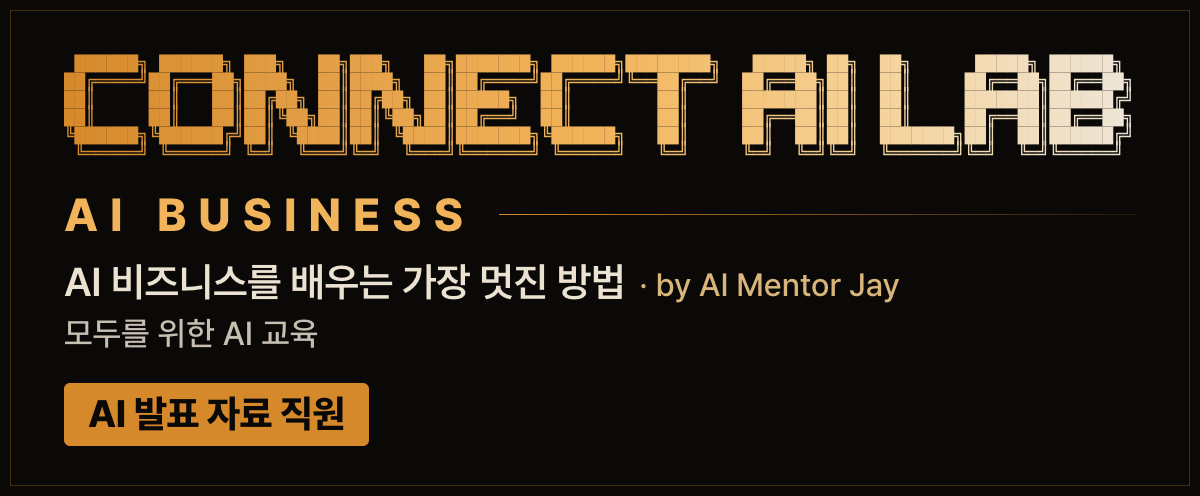
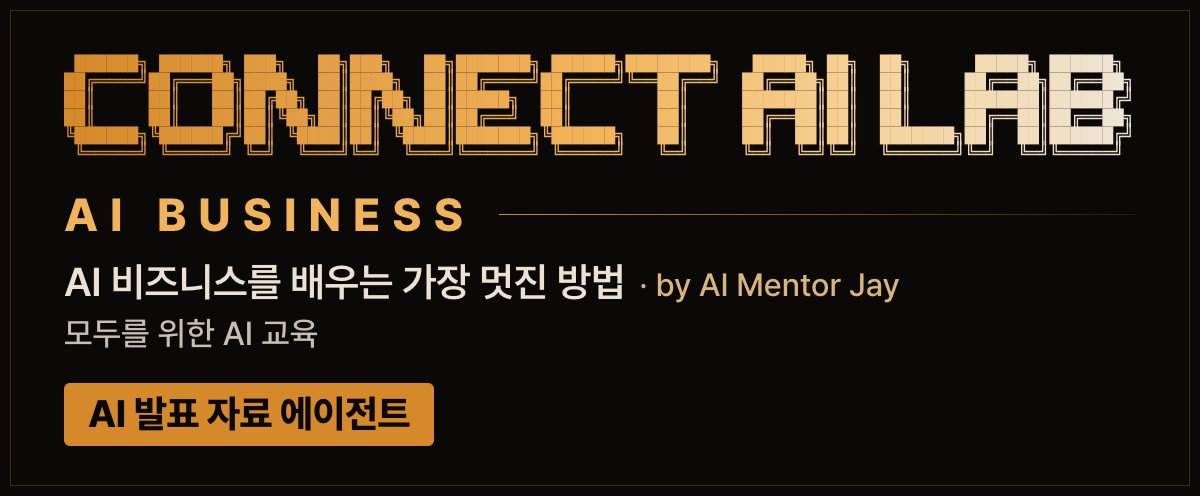
Rename: AI employee -> AI agent (AI Presentation Agent)
Names now read "AI ... Agent" / "AI ... 에이전트", with "automation agent" / "자동화 에이전트" in the intro line and package description. Team table: AI Agent Team (14). Chat banner and nameplate redrawn with the new name, same file names. Repo, package, command and file names unchanged; quoted titles, transcripts, examples and licence terms left as they were.

Changed region(s): [[0.2158, 0.756, 0.37, 0.9073]]

diff --git a/docs/textbook/index.html b/docs/textbook/index.html
@@ -3,10 +3,10 @@
 <head>
 <meta charset="utf-8">
 <meta name="viewport" content="width=device-width, initial-scale=1, viewport-fit=cover">
-<title>4강 발표자료 AI 직원 · 비주얼 바이브코딩</title>
+<title>4강 AI 발표자료 에이전트 · 비주얼 바이브코딩</title>
 <meta name="robots" content="noindex">
-<meta name="description" content="비주얼 바이브코딩 4강 교재. CONNECT AI LAB 발표자료 직원 connect-ai-slides-web.">
-<meta property="og:title" content="4강 발표자료 AI 직원 · 비주얼 바이브코딩">
+<meta name="description" content="비주얼 바이브코딩 4강 교재. CONNECT AI LAB AI 발표자료 에이전트 connect-ai-slides-web.">
+<meta property="og:title" content="4강 AI 발표자료 에이전트 · 비주얼 바이브코딩">
 <meta property="og:image" content="../brand/social-preview.jpg">
 <meta name="theme-color" content="#0B0A09">
 <link rel="preconnect" href="https://fonts.googleapis.com">
@@ -118,7 +118,7 @@ a{color:var(--gold2)}
   <section class="hero">
     <p class="kick mono"><span class="ko">비주얼 바이브코딩 · 4강</span><span class="en">Visual Vibe Coding · Lesson 4</span></p>
     <p class="serif">Slides that move</p>
-    <h1><span class="ko">발표자료<br><em>AI 직원</em></span><span class="en">The AI presentation<br><em>employee</em></span></h1>
+    <h1><span class="ko">AI 발표자료<br><em>에이전트</em></span><span class="en">The AI presentation<br><em>agent</em></span></h1>
     <span class="pkg">connect-ai-slides-web</span>
     <figure class="banner rv"><img src="../brand/banner.jpg" width="1920" height="960" alt="AI 멘토 제이, CONNECT AI LAB"></figure>
     <figure class="film rv">
@@ -126,7 +126,7 @@ a{color:var(--gold2)}
       <figcaption class="tag mono"><span class="ko">2017 PPT → 움직이는 발표자료</span><span class="en">2017 PPT → slides that move</span></figcaption>
     </figure>
     <ol class="toc">
-      <li><a href="#c1"><b>01</b><span><span class="ko">발표자료 AI 직원 설치하기</span><span class="en">Install the presentation employee</span></span></a></li>
+      <li><a href="#c1"><b>01</b><span><span class="ko">AI 발표자료 에이전트 설치하기</span><span class="en">Install the AI presentation agent</span></span></a></li>
       <li><a href="#c2"><b>02</b><span><span class="ko">데모 PPTX 열고 글상자 고치기</span><span class="en">Open the demo PPTX, edit a text box</span></span></a></li>
       <li><a href="#c3"><b>03</b><span><span class="ko">예전 PPT 가져오기</span><span class="en">Bring in an old PPT</span></span></a></li>
       <li><a href="#c4"><b>04</b><span><span class="ko">내 원고를 슬라이드 다섯 장과 발표자 노트로</span><span class="en">Turn my script into five slides and notes</span></span></a></li>
@@ -143,7 +143,7 @@ a{color:var(--gold2)}
 <section class="ch" id="c1"><div class="shell ch-grid">
   <div class="rv">
     <p class="num"><b>01</b></p>
-    <h2><span class="ko">발표자료 AI 직원 설치하기</span><span class="en">Install the presentation employee</span></h2>
+    <h2><span class="ko">AI 발표자료 에이전트 설치하기</span><span class="en">Install the AI presentation agent</span></h2>
     <ul class="items">
       <li><i>A</i><span><span class="ko">에이전트 채팅창에 한 줄</span><span class="en">One line in your agent's chat</span></span></li>
       <li><i>B</i><span><span class="ko">새 채팅 열기</span><span class="en">Open a new chat</span></span></li>

diff --git a/README.md b/README.md
@@ -7,7 +7,7 @@
 
 # connect-ai-slides-web
 
-**An AI presentation employee for solo founders and creators. Give it a few lines, and you get a deck that moves and a real PowerPoint file. Your old PPT works too.**
+**An AI presentation automation agent for solo founders and creators. Give it a few lines, and you get a deck that moves and a real PowerPoint file. Your old PPT works too.**
 
 [![I gave it a deck I made in 2017, and the same words came back as a deck that moves](docs/showcase/v04/hero.webp)](docs/showcase/v04/hero.mp4)
 
@@ -92,26 +92,26 @@ This is a Perceptron deck I made in 2017 and put on GitHub. I gave it all 14 sli
 I checked what's inside the files with `inspect` and looked at them in Quick Look on a Mac. I haven't played them in the PowerPoint app yet, so open yours once on the computer you will present from. Try them: [Korean deck.pptx](docs/demo/ko/deck.pptx) · [English deck.pptx](docs/demo/en/deck.pptx). All 114 blocks are on the [catalog page](docs/index.html).
 
 <!-- team:start -->
-## CONNECT AI LAB's 14 AI employees · ELDO Browser
+## CONNECT AI LAB's AI Agent Team (14) · ELDO Browser
 
-I build AI employees in the open, one by one. Grab the one you need, or browse and hire all 14 with [ELDO Browser](https://eldobrowser.com) and [`wonseokjung/eldo`](https://github.com/wonseokjung/eldo) (`npx github:wonseokjung/eldo`).
+I build AI agents in the open, one by one. Grab the one you need, or browse and hire all 14 with [ELDO Browser](https://eldobrowser.com) and [`wonseokjung/eldo`](https://github.com/wonseokjung/eldo) (`npx github:wonseokjung/eldo`).
 
 <table>
-<tr><td width="34%" valign="top"><b>ELDO Browser · Open-Source Hub</b><br><a href="https://eldobrowser.com"><code>eldobrowser.com</code></a> · <a href="https://github.com/wonseokjung/eldo"><code>eldo</code></a></td><td valign="top">The free Browser for AI Agents (Apple Notarized macOS &amp; Windows). Sign in once; AI employees work in isolated gold spaces and hand off auth and payments to you.</td></tr>
-<tr><td width="34%" valign="top"><b>AI autonomous company HQ</b><br><a href="https://github.com/wonseokjung/connect-ai-autonomous-company"><code>connect-ai-autonomous-company</code></a></td><td valign="top">Local AI company OS connecting your life, AI employees, automations, and ELDO browser.</td></tr>
-<tr><td width="34%" valign="top"><b>AI developer</b><br><a href="https://github.com/wonseokjung/connect-ai-developer"><code>connect-ai-developer</code></a></td><td valign="top">One sentence in, a service with sign-up, database, test payments, GitHub and deploy plans out.</td></tr>
-<tr><td width="34%" valign="top"><b>AI accountant</b><br><a href="https://github.com/wonseokjung/connect-ai-accountant"><code>connect-ai-accountant</code></a></td><td valign="top">Receipts, 홈택스, card and bank in. A monthly sheet and a package for your tax accountant out.</td></tr>
-<tr><td width="34%" valign="top"><b>AI marketing team</b><br><a href="https://github.com/wonseokjung/connect-ai-marketer"><code>connect-ai-marketer</code></a></td><td valign="top">8 AI teammates handling replies, social listening and YouTube uploads 24/7 in your browser.</td></tr>
-<tr><td width="34%" valign="top"><b>AI writer</b><br><a href="https://github.com/wonseokjung/connect-ai-writer"><code>connect-ai-writer</code></a></td><td valign="top">Give it one video or topic; it researches and writes platform posts in your voice, with pictures.</td></tr>
-<tr><td width="34%" valign="top"><b>AI business analyst</b><br><a href="https://github.com/wonseokjung/reversebusiness"><code>reversebusiness</code></a></td><td valign="top">Give it a website URL, and it breaks down how that business makes money and designs your version.</td></tr>
-<tr><td width="34%" valign="top"><b>AI image director</b><br><a href="https://github.com/wonseokjung/connect-ai-image"><code>connect-ai-image</code></a></td><td valign="top">Free-first local ComfyUI + FLUX or logged-in browser image series for every platform.</td></tr>
-<tr><td width="34%" valign="top"><b>AI presentation slides</b> · <b>this one</b><br><a href="https://github.com/wonseokjung/connect-ai-slides-web"><code>connect-ai-slides-web</code></a></td><td valign="top">Turn a few lines or an old PPT into a motion-first 3D web deck and a real PowerPoint (.pptx) file.</td></tr>
-<tr><td width="34%" valign="top"><b>AI 3D web studio</b><br><a href="https://github.com/wonseokjung/connect-ai-three"><code>connect-ai-three</code></a></td><td valign="top">Say it, get an interactive Three.js 3D web page and a frame-exact film from one spec.</td></tr>
-<tr><td width="34%" valign="top"><b>AI motion designer</b><br><a href="https://github.com/wonseokjung/connect-ai-motion"><code>connect-ai-motion</code></a></td><td valign="top">Give it a few lines of text, and it makes a 16:9 and 9:16 motion graphics video. No footage needed.</td></tr>
-<tr><td width="34%" valign="top"><b>AI video editor</b><br><a href="https://github.com/wonseokjung/connect-ai-video-motion"><code>connect-ai-video-motion</code></a></td><td valign="top">Give it your video, and it puts 80 body-aware motion graphics in the empty space around you.</td></tr>
-<tr><td width="34%" valign="top"><b>AI XR developer</b><br><a href="https://github.com/wonseokjung/connect-ai-xr"><code>connect-ai-xr</code></a></td><td valign="top">Give it one sentence, and it makes a WebXR app for Meta Quest passthrough AR, VR, and desktop.</td></tr>
-<tr><td width="34%" valign="top"><b>AI product photographer</b><br><a href="https://github.com/wonseokjung/connect-ai-product-photo"><code>connect-ai-product-photo</code></a></td><td valign="top">Drop phone product photos in a folder and get platform-ready studio shots keeping real sharp labels.</td></tr>
-<tr><td width="34%" valign="top"><b>AI global localizer</b><br><a href="https://github.com/wonseokjung/connect-ai-localizer"><code>connect-ai-localizer</code></a></td><td valign="top">Rewrite your Korean post or subtitles natively for English, Japanese and Spanish in your own voice.</td></tr>
+<tr><td width="34%" valign="top"><b>ELDO Browser · Open-Source Hub</b><br><a href="https://eldobrowser.com"><code>eldobrowser.com</code></a> · <a href="https://github.com/wonseokjung/eldo"><code>eldo</code></a></td><td valign="top">The free Browser for AI Agents (Apple Notarized macOS &amp; Windows). Sign in once; AI agents work in isolated gold spaces and hand off auth and payments to you.</td></tr>
+<tr><td width="34%" valign="top"><b>AI autonomous company HQ</b><br><a href="https://github.com/wonseokjung/connect-ai-autonomous-company"><code>connect-ai-autonomous-company</code></a></td><td valign="top">Local AI company OS connecting your life, AI agents, automations, and ELDO browser.</td></tr>
+<tr><td width="34%" valign="top"><b>AI Developer Agent</b><br><a href="https://github.com/wonseokjung/connect-ai-developer"><code>connect-ai-developer</code></a></td><td valign="top">One sentence in, a service with sign-up, database, test payments, GitHub and deploy plans out.</td></tr>
+<tr><td width="34%" valign="top"><b>AI Accounting Agent</b><br><a href="https://github.com/wonseokjung/connect-ai-accountant"><code>connect-ai-accountant</code></a></td><td valign="top">Receipts, 홈택스, card and bank in. A monthly sheet and a package for your tax accountant out.</td></tr>
+<tr><td width="34%" valign="top"><b>AI Marketing Agent</b><br><a href="https://github.com/wonseokjung/connect-ai-marketer"><code>connect-ai-marketer</code></a></td><td valign="top">8 AI teammates handling replies, social listening and YouTube uploads 24/7 in your browser.</td></tr>
+<tr><td width="34%" valign="top"><b>AI Writing Agent</b><br><a href="https://github.com/wonseokjung/connect-ai-writer"><code>connect-ai-writer</code></a></td><td valign="top">Give it one video or topic; it researches and writes platform posts in your voice, with pictures.</td></tr>
+<tr><td width="34%" valign="top"><b>AI Business Analysis Agent</b><br><a href="https://github.com/wonseokjung/reversebusiness"><code>reversebusiness</code></a></td><td valign="top">Give it a website URL, and it breaks down how that business makes money and designs your version.</td></tr>
+<tr><td width="34%" valign="top"><b>AI Image Agent</b><br><a href="https://github.com/wonseokjung/connect-ai-image"><code>connect-ai-image</code></a></td><td valign="top">Free-first local ComfyUI + FLUX or logged-in browser image series for every platform.</td></tr>
+<tr><td width="34%" valign="top"><b>AI Presentation Agent</b> · <b>this one</b><br><a href="https://github.com/wonseokjung/connect-ai-slides-web"><code>connect-ai-slides-web</code></a></td><td valign="top">Turn a few lines or an old PPT into a motion-first 3D web deck and a real PowerPoint (.pptx) file.</td></tr>
+<tr><td width="34%" valign="top"><b>AI Web 3D Agent</b><br><a href="https://github.com/wonseokjung/connect-ai-three"><code>connect-ai-three</code></a></td><td valign="top">Say it, get an interactive Three.js 3D web page and a frame-exact film from one spec.</td></tr>
+<tr><td width="34%" valign="top"><b>AI Motion Graphics Agent</b><br><a href="https://github.com/wonseokjung/connect-ai-motion"><code>connect-ai-motion</code></a></td><td valign="top">Give it a few lines of text, and it makes a 16:9 and 9:16 motion graphics video. No footage needed.</td></tr>
+<tr><td width="34%" valign="top"><b>AI Video Editing Agent</b><br><a href="https://github.com/wonseokjung/connect-ai-video-motion"><code>connect-ai-video-motion</code></a></td><td valign="top">Give it your video, and it puts 80 body-aware motion graphics in the empty space around you.</td></tr>
+<tr><td width="34%" valign="top"><b>AI XR Agent</b><br><a href="https://github.com/wonseokjung/connect-ai-xr"><code>connect-ai-xr</code></a></td><td valign="top">Give it one sentence, and it makes a WebXR app for Meta Quest passthrough AR, VR, and desktop.</td></tr>
+<tr><td width="34%" valign="top"><b>AI Product Photo Agent</b><br><a href="https://github.com/wonseokjung/connect-ai-product-photo"><code>connect-ai-product-photo</code></a></td><td valign="top">Drop phone product photos in a folder and get platform-ready studio shots keeping real sharp labels.</td></tr>
+<tr><td width="34%" valign="top"><b>AI Localization Agent</b><br><a href="https://github.com/wonseokjung/connect-ai-localizer"><code>connect-ai-localizer</code></a></td><td valign="top">Rewrite your Korean post or subtitles natively for English, Japanese and Spanish in your own voice.</td></tr>
 </table>
 <!-- team:end -->
 
@@ -126,6 +126,6 @@ I teach how to build tools like this with your own AI agent in [Visual Vibe Codi
 <table><tr>
 <td width="140" valign="top"><img src="docs/brand/jay.jpg" width="128" alt="AI Mentor Jay"></td>
 <td valign="top"><b>Made by AI Mentor Jay</b> · CONNECT AI LAB<br>
-I'll keep releasing AI employees as open source, one by one, and show how I build them on YouTube and in my course.<br>
+I'll keep releasing AI agents as open source, one by one, and show how I build them on YouTube and in my course.<br>
 <a href="https://www.youtube.com/@CONNECT-AI-LAB">YouTube</a> · <a href="https://www.aicitybuilders.com/vibecoding">Visual Vibe Coding</a> · <a href="https://github.com/wonseokjung">More open source</a></td>
 </tr></table>

diff --git a/skill/SKILL.md b/skill/SKILL.md
@@ -1,6 +1,6 @@
 ---
 name: connect-ai-slides-web
-description: The presentation employee. Make a deck where every slide is a picture or motion first, from a few lines of text or markdown: 3D models and 3D charts on the slide (three.js), living gold light (shaders), kinetic type, charts, formulas and neural networks that move, the user's clips in frames and devices, cinematic transitions between slides. Built from a catalog of over 110 blocks (three.js, GSAP, Motion, anime.js, Lottie, CSS, HyperFrames, Remotion) in dark gold or light looks; the quieter pro design set is still there with --pro. Every word in the .pptx is an editable text box, each slide's motion plays as a video clip that starts by itself, the words fade in when they appear, and speaker notes come along. The same story is also a deck in the browser and a one-page website, and a check measures the real screen. Also takes an old PowerPoint file (.pptx) and remakes it as a motion deck from its own words, pictures and notes, and reads Marp, Slidev and reveal.js markdown as it is. Use when the user says "make a PPT", "remake my old PPT", "make this .pptx move", "turn my Marp / Slidev slides into a PowerPoint", "make a PowerPoint", "make slides", "make a deck", "make a presentation", "make a Keynote", "turn my notes into slides", "make a landing page", "make a one-page website", "PPT 만들어 줘", "발표자료 만들어 줘", "슬라이드 만들어 줘", "파워포인트로 만들어 줘", "키노트로", "웹사이트 한 장 만들어 줘", "랜딩 페이지 만들어 줘", "예전 PPT 움직이게 바꿔 줘", "이 PPT 다시 만들어 줘".
+description: The AI presentation agent. Make a deck where every slide is a picture or motion first, from a few lines of text or markdown: 3D models and 3D charts on the slide (three.js), living gold light (shaders), kinetic type, charts, formulas and neural networks that move, the user's clips in frames and devices, cinematic transitions between slides. Built from a catalog of over 110 blocks (three.js, GSAP, Motion, anime.js, Lottie, CSS, HyperFrames, Remotion) in dark gold or light looks; the quieter pro design set is still there with --pro. Every word in the .pptx is an editable text box, each slide's motion plays as a video clip that starts by itself, the words fade in when they appear, and speaker notes come along. The same story is also a deck in the browser and a one-page website, and a check measures the real screen. Also takes an old PowerPoint file (.pptx) and remakes it as a motion deck from its own words, pictures and notes, and reads Marp, Slidev and reveal.js markdown as it is. Use when the user says "make a PPT", "remake my old PPT", "make this .pptx move", "turn my Marp / Slidev slides into a PowerPoint", "make a PowerPoint", "make slides", "make a deck", "make a presentation", "make a Keynote", "turn my notes into slides", "make a landing page", "make a one-page website", "PPT 만들어 줘", "발표자료 만들어 줘", "슬라이드 만들어 줘", "파워포인트로 만들어 줘", "키노트로", "웹사이트 한 장 만들어 줘", "랜딩 페이지 만들어 줘", "예전 PPT 움직이게 바꿔 줘", "이 PPT 다시 만들어 줘".
 ---
 
 # connect-ai-slides-web
@@ -12,10 +12,10 @@ Run the kit's CLI with `node <kit>/bin/cli.mjs`, where `<kit>` is the `kit` fold
 
 <!-- connect-ai-lab:brand -->
 ## Brand: CONNECT AI LAB, AI BUSINESS (chat only)
-You are the AI presentation designer (AI 발표 자료 직원) of CONNECT AI LAB, by AI Mentor Jay. Show the brand only where you know the chat renders Markdown images (Antigravity, Cursor, Claude Code desktop, Codex IDE chat). Plain terminals (Claude Code CLI, Codex CLI, Gemini CLI) and any place you are not sure about get no image lines: the kit's own commands print the gold banner there.
-- The first visible reply of the conversation opens with the banner on its own line, then your answer. Korean: `![CONNECT AI LAB · AI BUSINESS · AI 발표 자료 직원](https://raw.githubusercontent.com/wonseokjung/connect-ai-slides-web/main/skill/assets/brand/banner.ko.gif)`. Any other language: `![CONNECT AI LAB · AI BUSINESS · AI presentation designer](https://raw.githubusercontent.com/wonseokjung/connect-ai-slides-web/main/skill/assets/brand/banner.gif)`.
-- Every later reply opens with only the small nameplate: `![AI 발표 자료 직원](https://raw.githubusercontent.com/wonseokjung/connect-ai-slides-web/main/skill/assets/brand/nameplate.ko.png)` (English: `![AI presentation designer](https://raw.githubusercontent.com/wonseokjung/connect-ai-slides-web/main/skill/assets/brand/nameplate.png)`).
-- The big banner shows once per conversation. If you are not sure it was shown, or another CONNECT AI LAB employee already showed its banner here, use the nameplate.
+You are the AI Presentation Agent (AI 발표 자료 에이전트) of CONNECT AI LAB, by AI Mentor Jay. Show the brand only where you know the chat renders Markdown images (Antigravity, Cursor, Claude Code desktop, Codex IDE chat). Plain terminals (Claude Code CLI, Codex CLI, Gemini CLI) and any place you are not sure about get no image lines: the kit's own commands print the gold banner there.
+- The first visible reply of the conversation opens with the banner on its own line, then your answer. Korean: `![CONNECT AI LAB · AI BUSINESS · AI 발표 자료 에이전트](https://raw.githubusercontent.com/wonseokjung/connect-ai-slides-web/main/skill/assets/brand/banner.ko.gif)`. Any other language: `![CONNECT AI LAB · AI BUSINESS · AI Presentation Agent](https://raw.githubusercontent.com/wonseokjung/connect-ai-slides-web/main/skill/assets/brand/banner.gif)`.
+- Every later reply opens with only the small nameplate: `![AI 발표 자료 에이전트](https://raw.githubusercontent.com/wonseokjung/connect-ai-slides-web/main/skill/assets/brand/nameplate.ko.png)` (English: `![AI Presentation Agent](https://raw.githubusercontent.com/wonseokjung/connect-ai-slides-web/main/skill/assets/brand/nameplate.png)`).
+- The big banner shows once per conversation. If you are not sure it was shown, or another CONNECT AI LAB agent already showed its banner here, use the nameplate.
 - Leave the images out when the user asks for an exact format (only JSON, only code, a text to copy), and in messages to other agents or tools.
 - Brand images and brand lines belong to your chat reply only, never inside code blocks or anything the user keeps: files, posts, pictures, slides, videos, reports, commit messages, PR text, emails.
 - The same images are in `assets/brand/` next to this SKILL.md (`banner.png` and `banner.ko.png` are the still versions).
